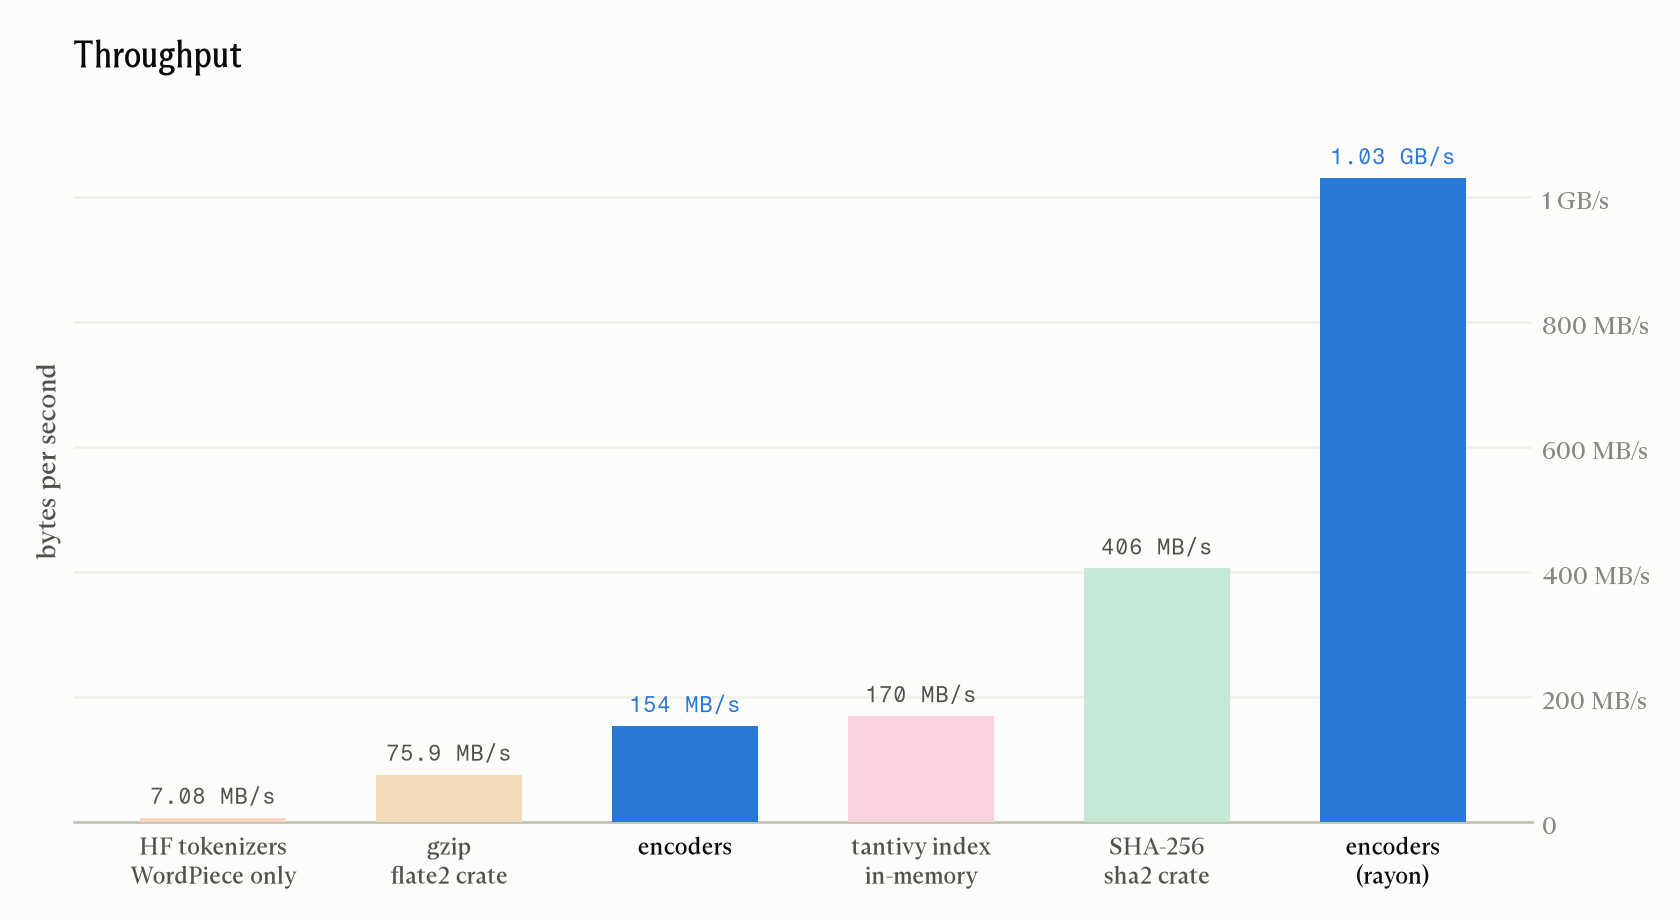
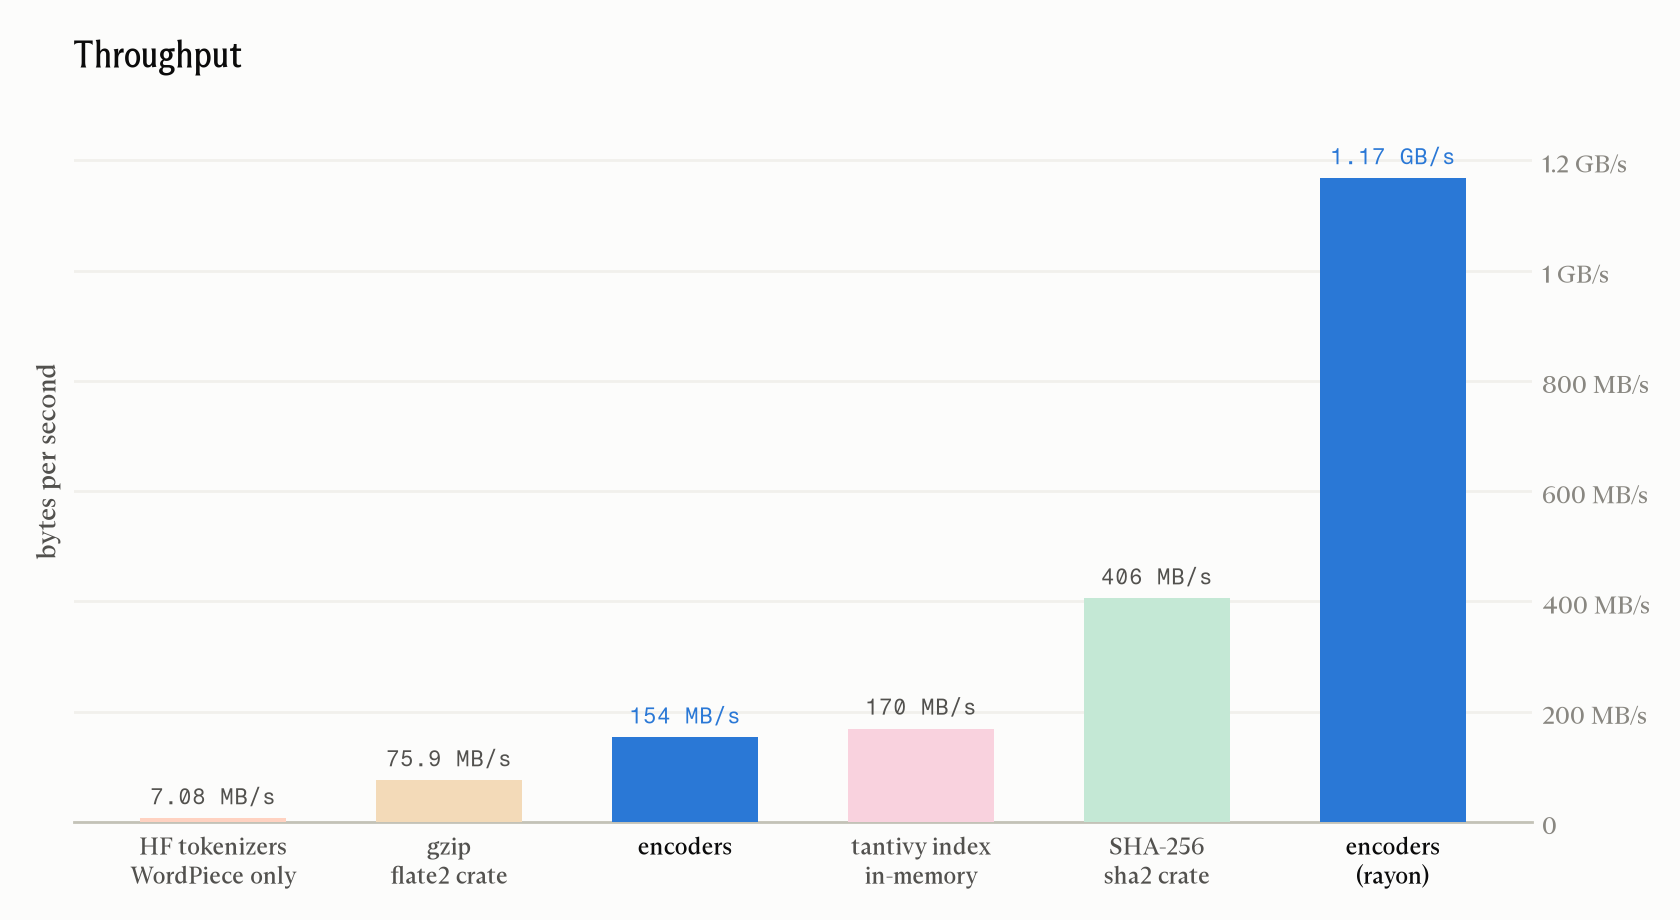
black box drain at int8

diff --git a/ese/src/accum.rs b/ese/src/accum.rs
@@ -66,6 +66,17 @@ fn sum_block<E: Elem, const D: usize, const B: usize>(rows: &[&[E; D]], off: usi
             acc[j] = E::add(acc[j], r[j]);
         }
     }
+    // For u8 rows, keep the u16 lane sums opaque to the conversion below.
+    // Without this, LLVM vectorizes the whole block starting from the f32
+    // stores of some callers (`drain`), and their four-wide f32 vectors
+    // became four-wide u16 accumulators: four bytes per load and every
+    // widening add half empty. u16 rows (u32 lanes) and f32 rows already
+    // match a four-wide f32 vector, so they skip the round trip.
+    let acc = if core::mem::size_of::<E>() == 1 {
+        core::hint::black_box(acc)
+    } else {
+        acc
+    };
     let mut out = [0.0f32; B];
     for j in 0..B {
         out[j] = E::acc_to_f32(acc[j]);
